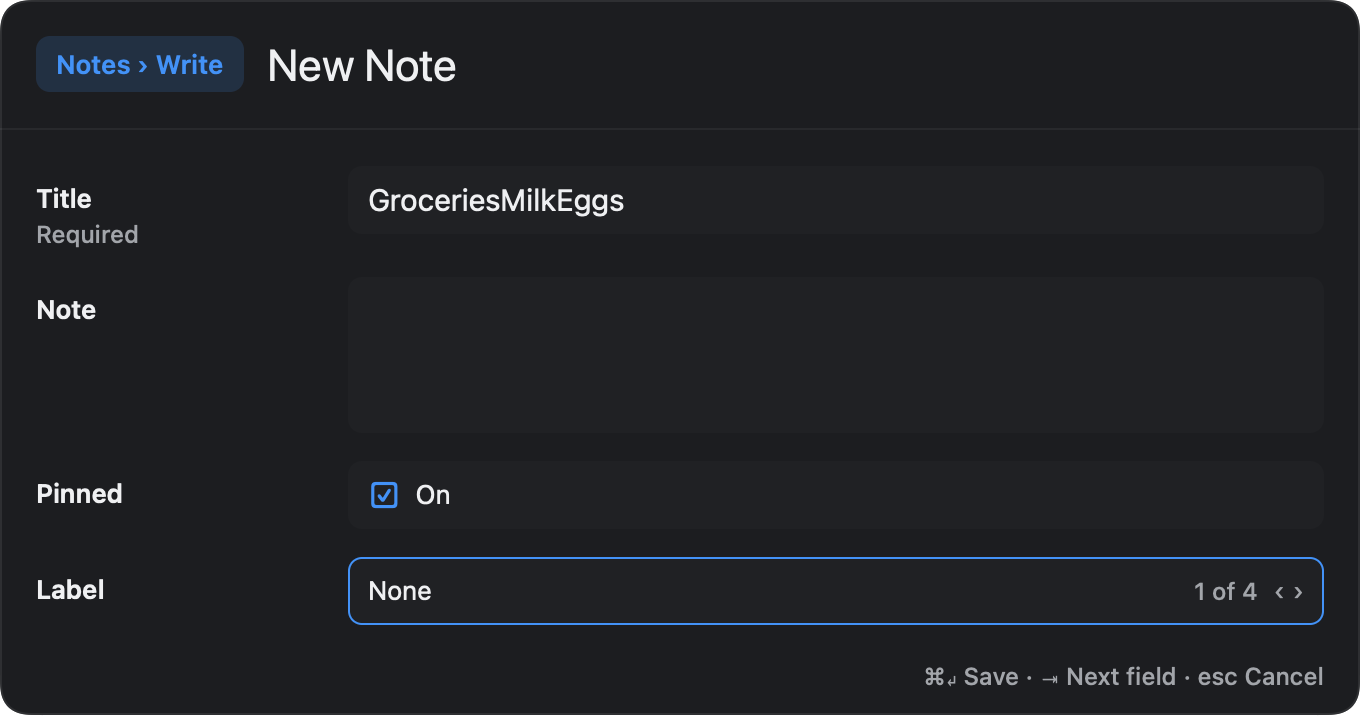
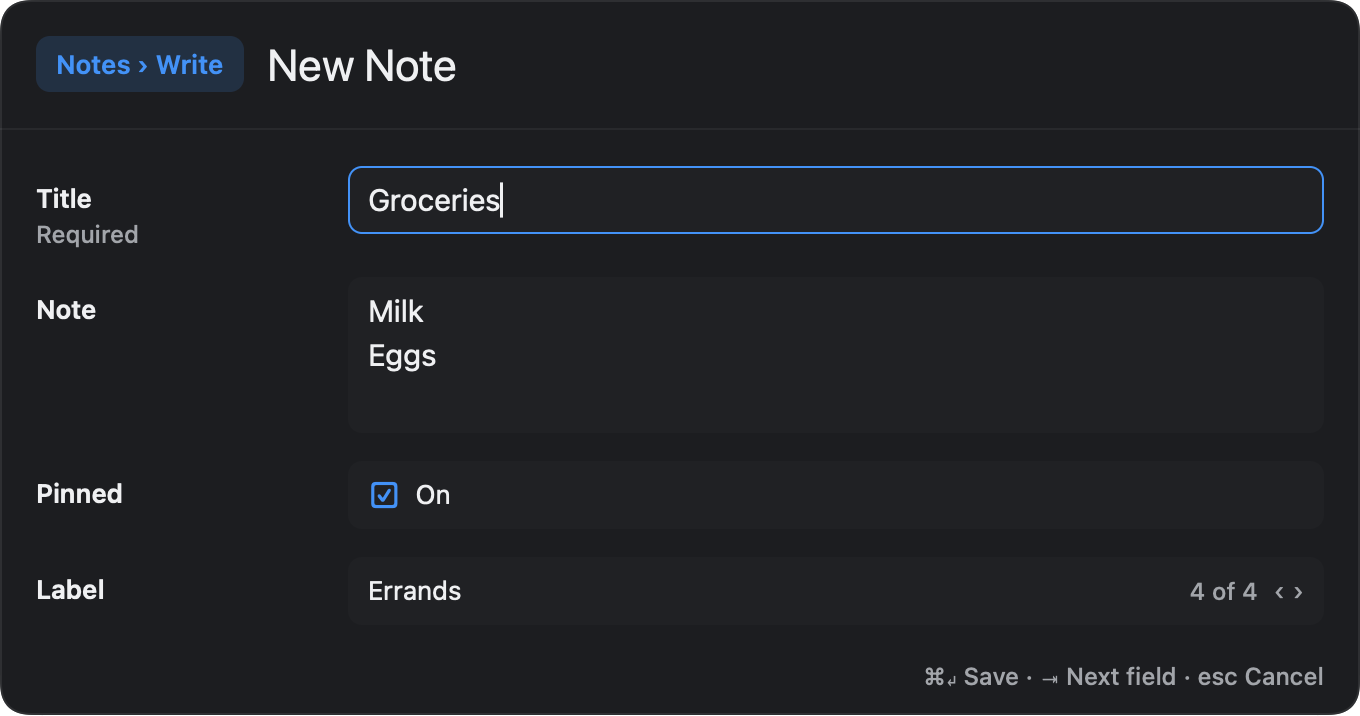
docs: show Settings → Snippets
main added a Snippets page to Settings, where stored snippets are added and edited, so the snippets page shows it beside the launcher's list.

Changed region(s): [[0.3706, 0.2458, 0.4632, 0.3073], [0.2779, 0.3994, 0.3397, 0.5223], [0.2779, 0.7989, 0.3397, 0.8603]]

diff --git a/docs/features/snippets.md b/docs/features/snippets.md
@@ -15,6 +15,11 @@ Snippets you use often rank higher, as apps do.
 
 The first row, **Add Snippet**, opens a form with a name, a keyword and the text; ⌘Enter saves it, and Esc leaves without saving. A snippet you added also offers **Edit Snippet** and **Delete Snippet** on its actions screen, and every row offers **Add Snippet**. Settings → Snippets lists every snippet and adds, edits and deletes the ones stored in Dupin there too.
 
+<picture>
+<source media="(prefers-color-scheme: dark)" srcset="../images/settings/snippets-dark.png" />
+<img alt="Settings → Snippets: an Add Snippet button above Home address, Quote the clipboard, Email signature and Checked stamp, each with its keyword and text and marked From config.toml." src="../images/settings/snippets-light.png" width="760" />
+</picture>
+
 Dupin stores the snippets you add in its [encrypted storage](./storage.md), never in `config.toml`. A snippet is checked as `config.toml`'s are, below: a keyword another snippet has, in storage or in `config.toml`, is refused with a message under the field. The launcher's form holds up to 16 KiB of text; a longer snippet is edited in Settings, and its row offers no Edit Snippet.
 
 When there is no snippet at all, the Snippets command isn't suggested as you type a keyword and `?` doesn't list it, so an unused feature stays out of the way. Its keywords still work: `snip`, then Space, shows **Add Snippet**, where you add the first one.
